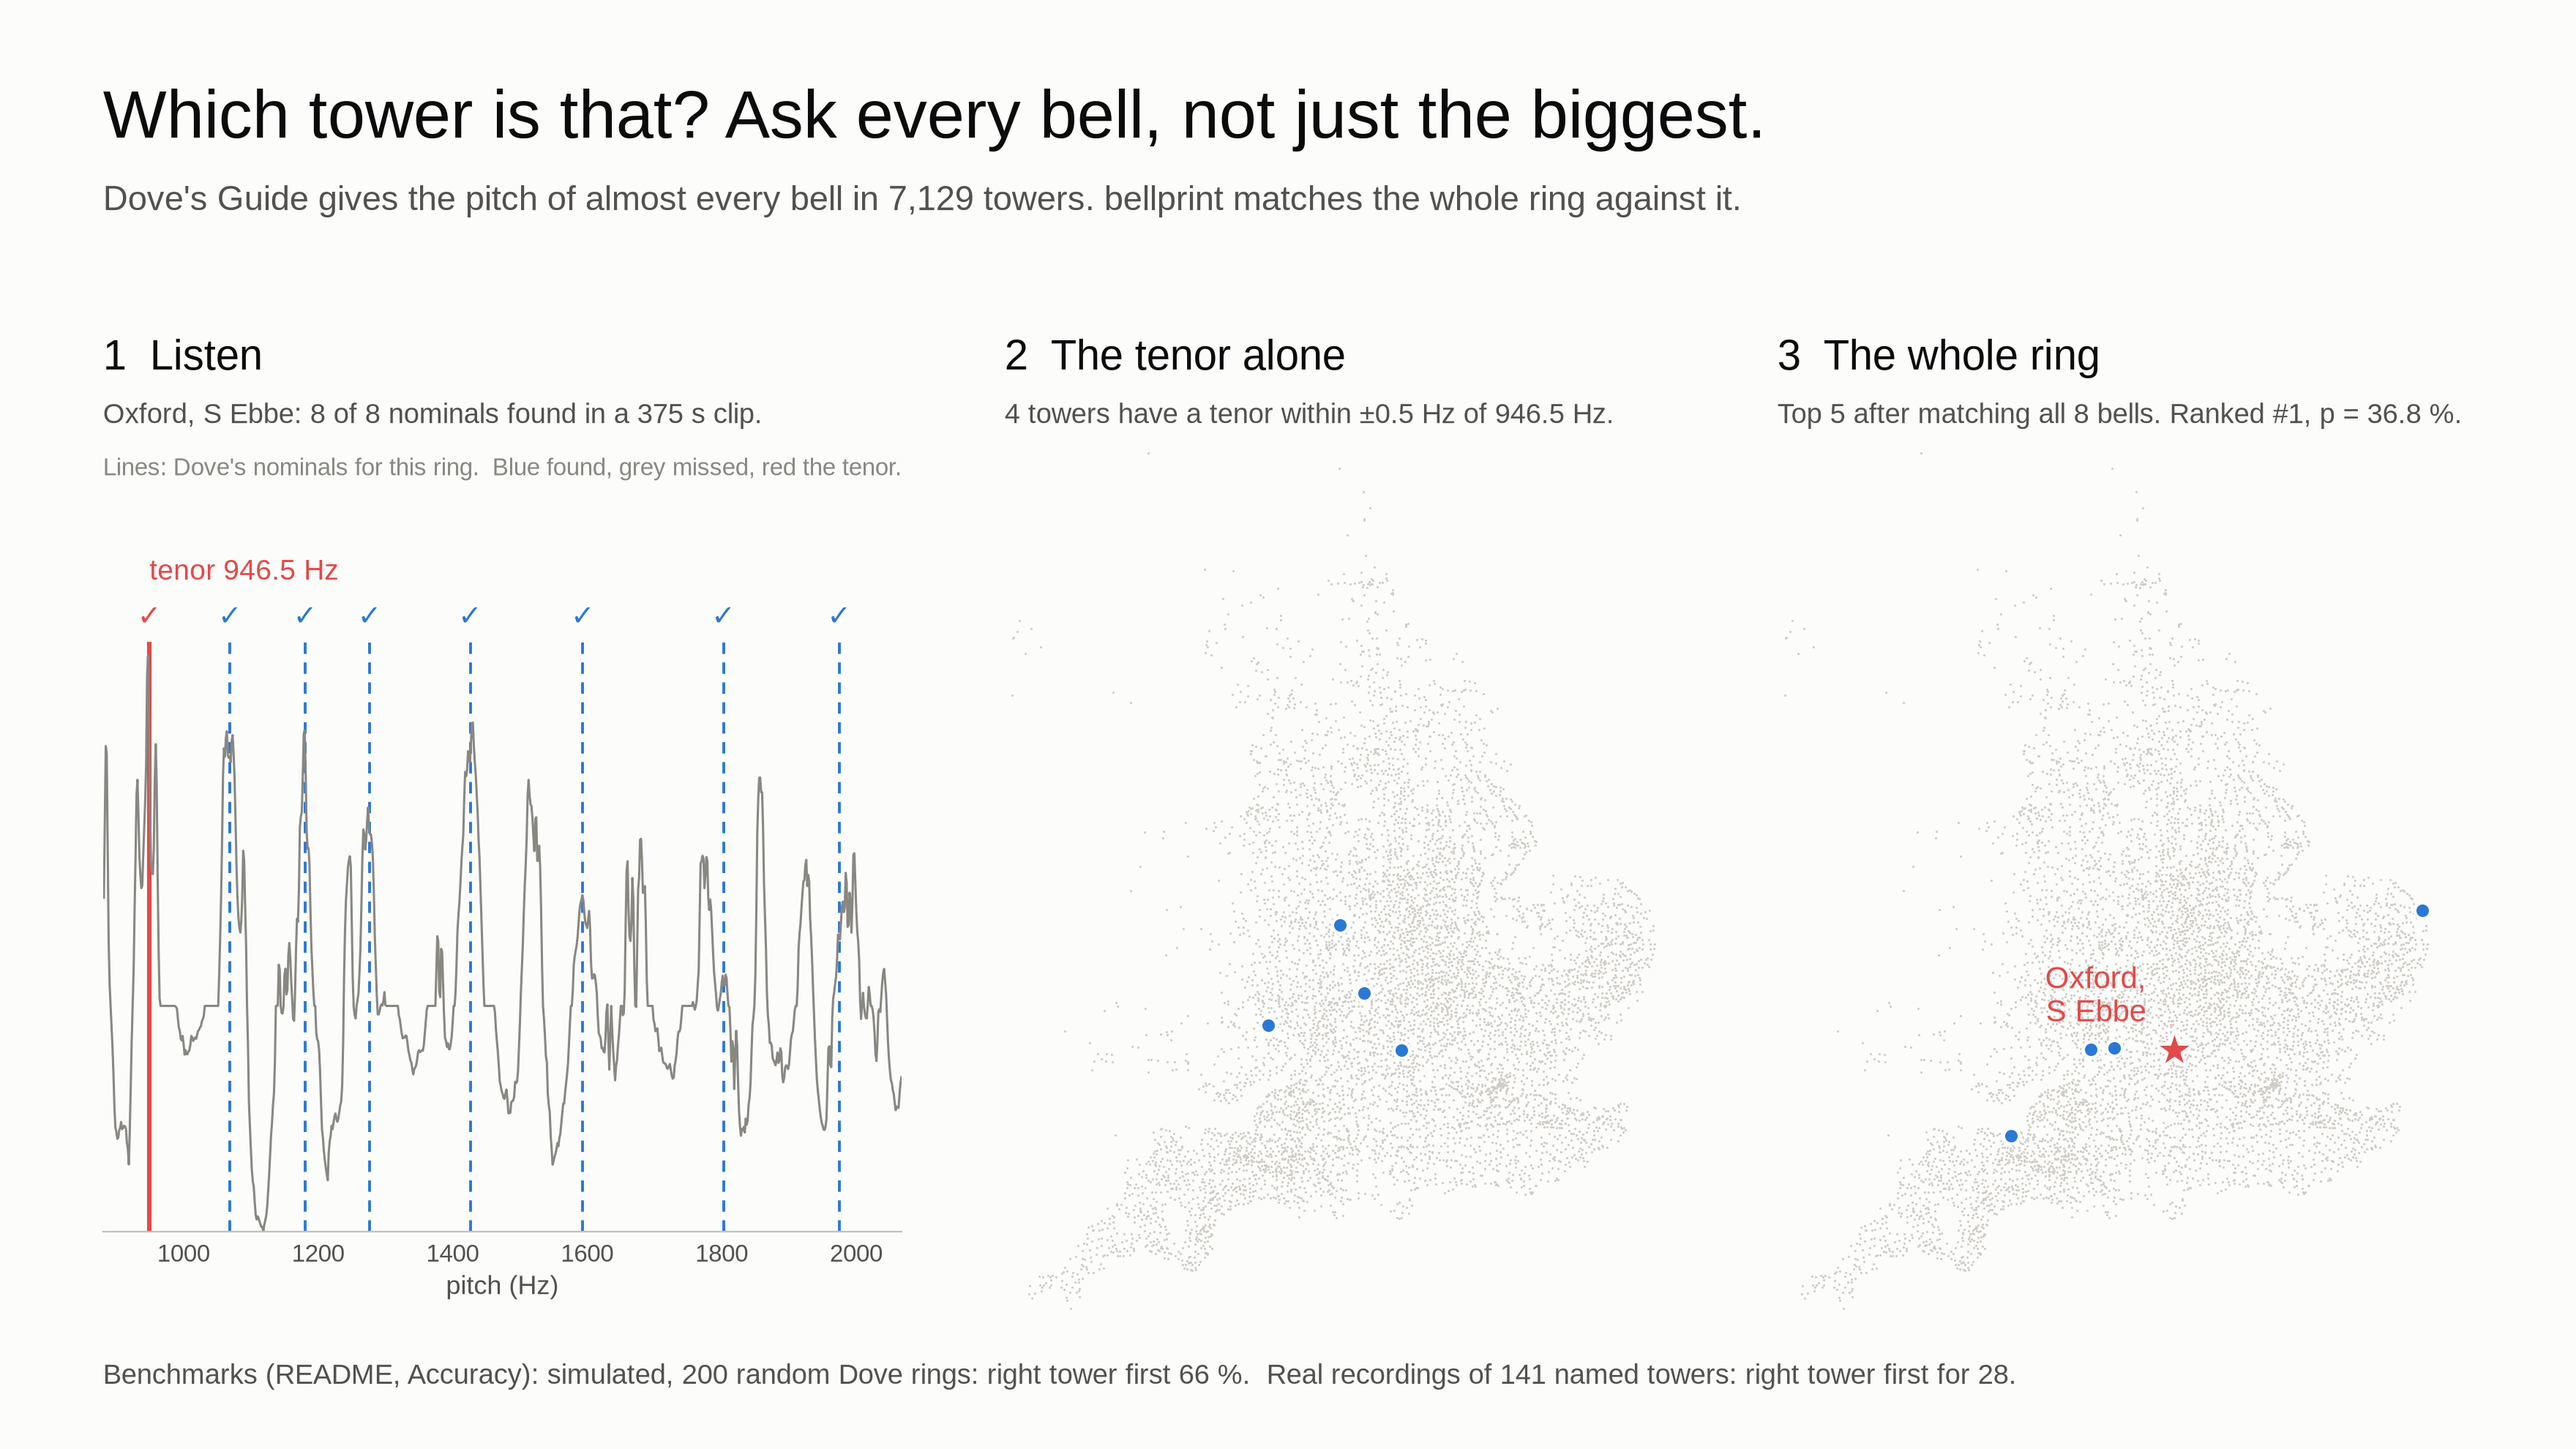
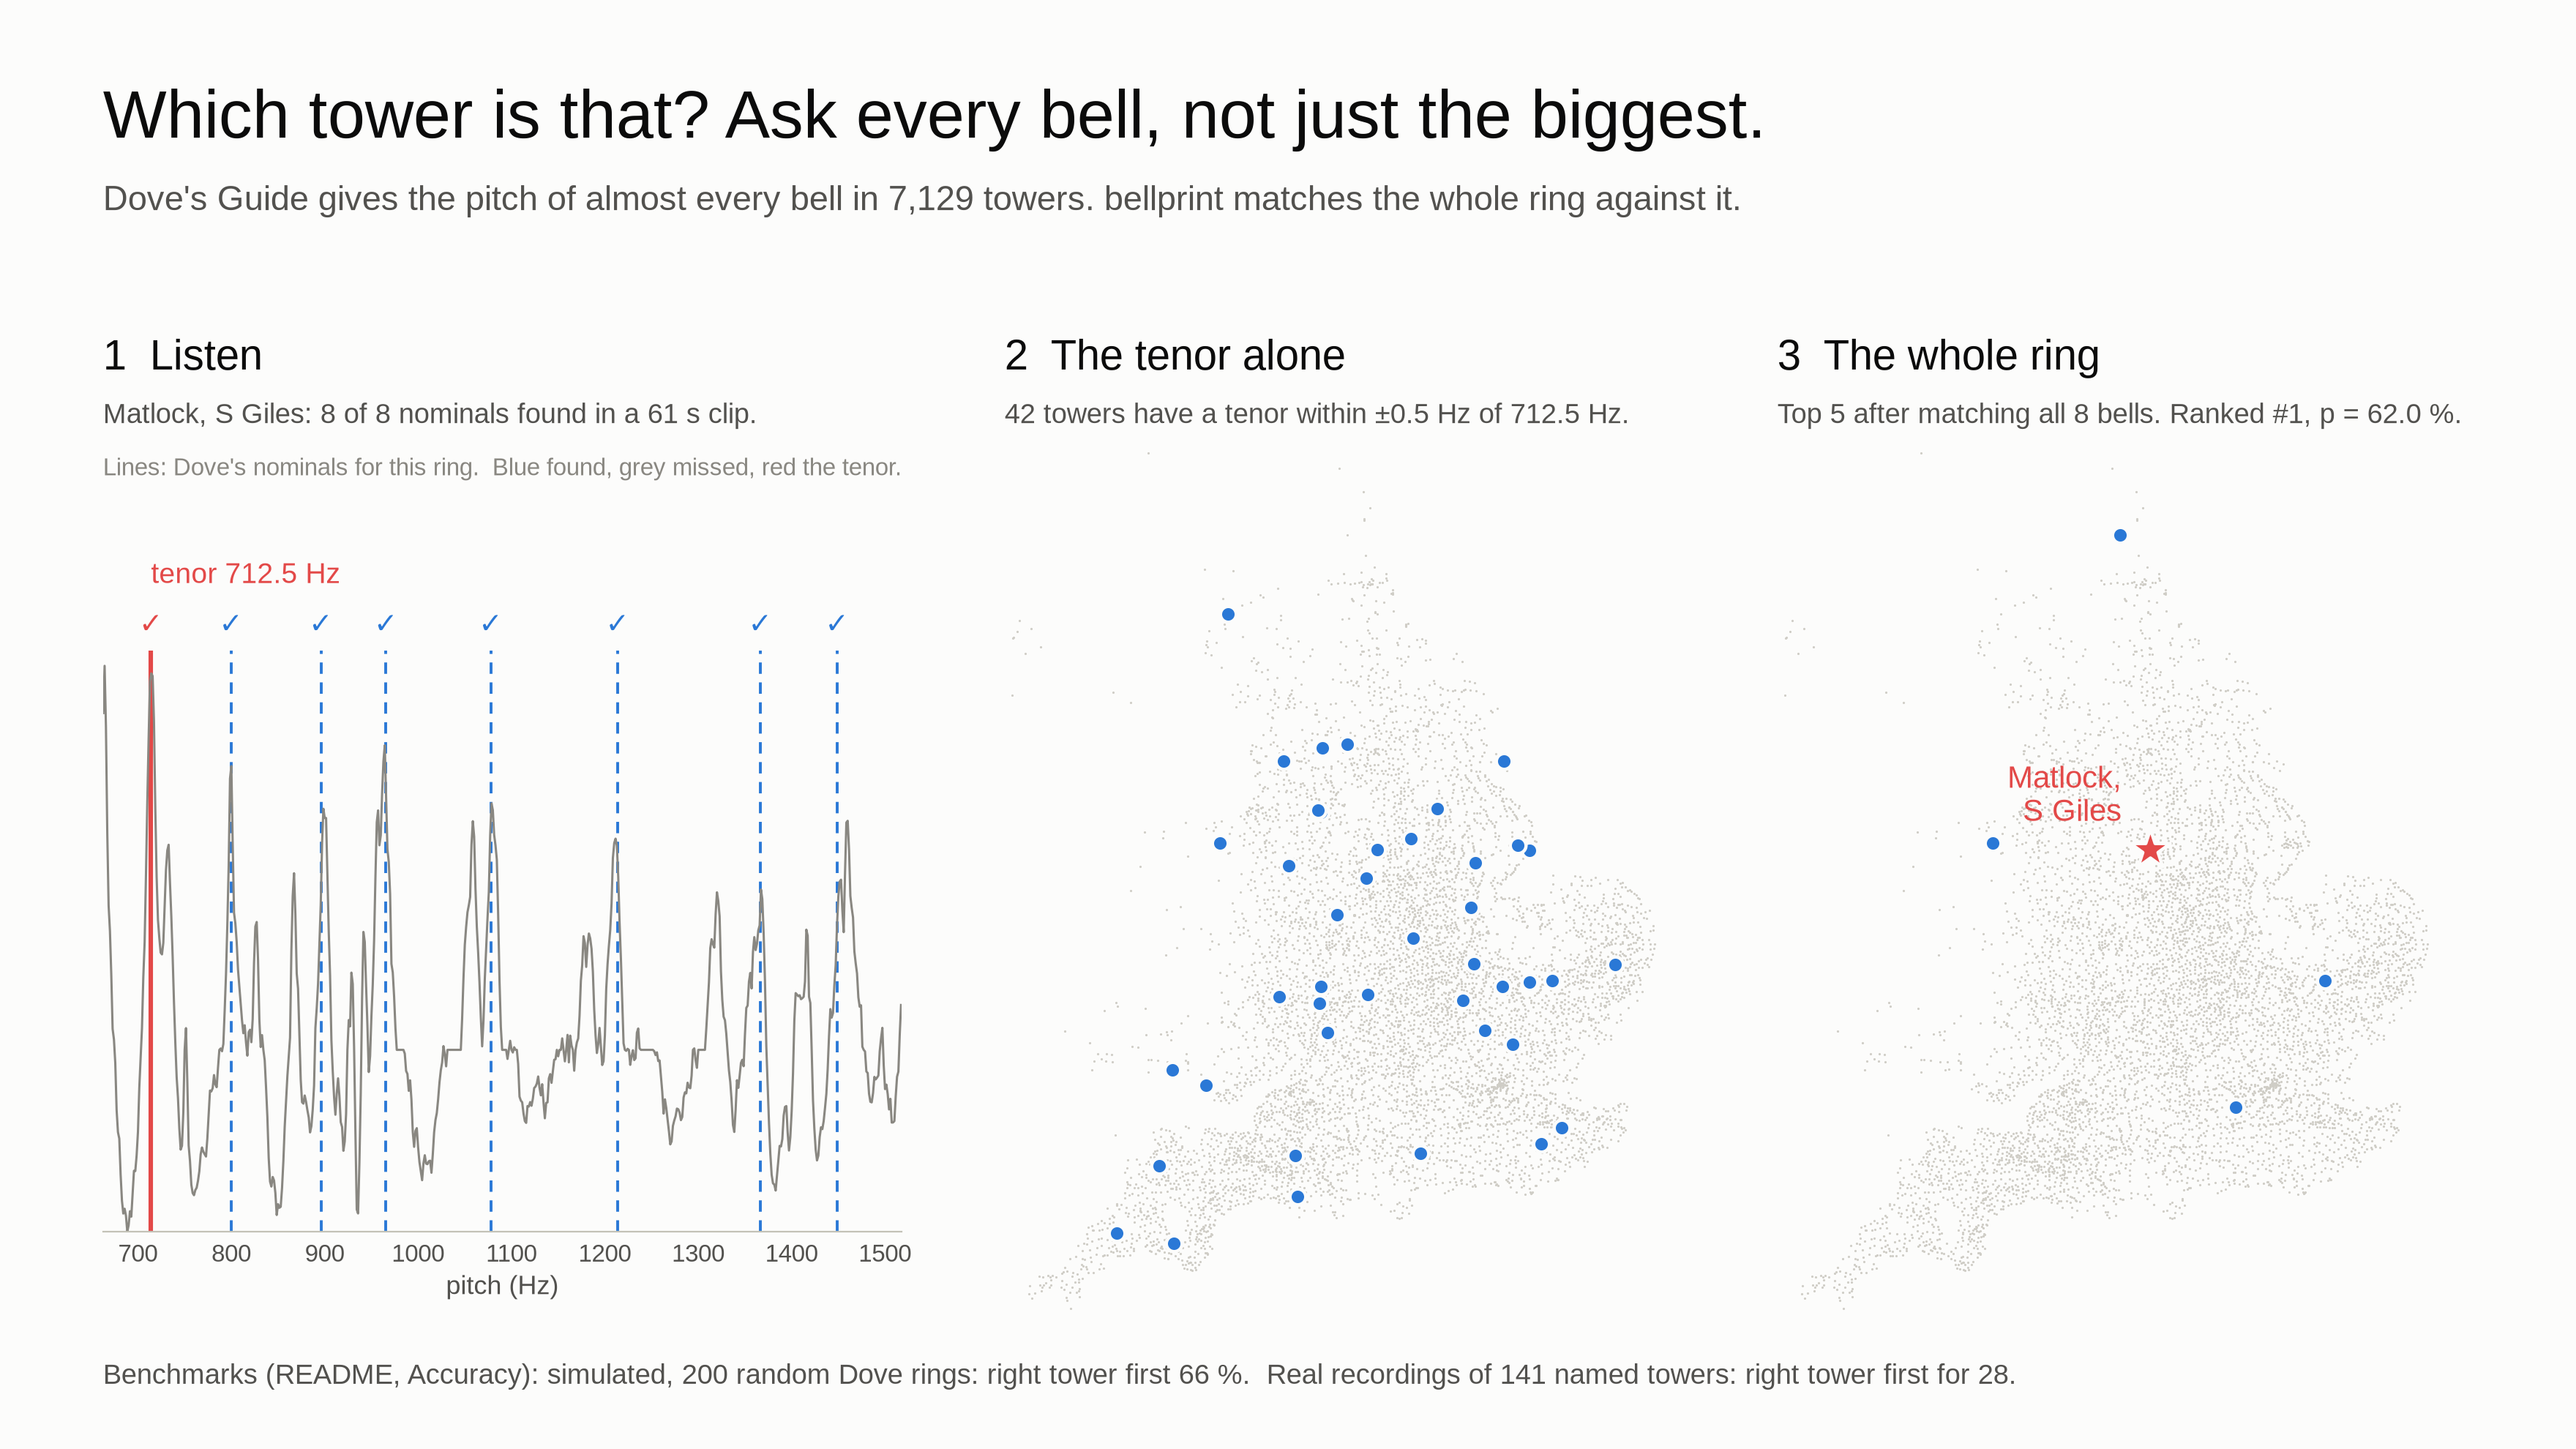
README header: Matlock St Giles (ranked first, 42 same-tenor towers); real top-5 47/141
With min_prominence_db 4, Oxford St Ebbe drops to rank 2, so the header no longer showed the whole ring winning.

diff --git a/tools/readme_figure.py b/tools/readme_figure.py
@@ -21,7 +21,7 @@ import numpy as np
 import soundfile as sf
 
 ROOT = Path(__file__).resolve().parent.parent
-CLIP = sys.argv[1] if len(sys.argv) > 1 else "sc-oxford-st-ebbe"
+CLIP = sys.argv[1] if len(sys.argv) > 1 else "fsg-matlock-st-giles"
 BIN = Path(os.environ.get("BELLPRINT_BIN", ROOT / "target/fastrel/bellprint"))
 OUT = ROOT / "docs/img/header.png"
 

diff --git a/README.md b/README.md
@@ -1,6 +1,6 @@
 # bellprint
 
-![Three panels: the spectrum of a real recording at Oxford, St Ebbe with its bells' nominals marked; a map of the 4 towers whose tenor shares that pitch; and a map where matching the whole ring ranks St Ebbe first.](docs/img/header.png)
+![Three panels: the spectrum of a real recording at Matlock, St Giles with its bells' nominals marked; a map of the 42 towers whose tenor shares that pitch; and a map where matching the whole ring ranks St Giles first.](docs/img/header.png)
 
 [![CI](https://github.com/Hexay/bellprint/actions/workflows/ci.yml/badge.svg)](https://github.com/Hexay/bellprint/actions/workflows/ci.yml)
 [![PyPI](https://img.shields.io/pypi/v/bellprint.svg)](https://pypi.org/project/bellprint/)
